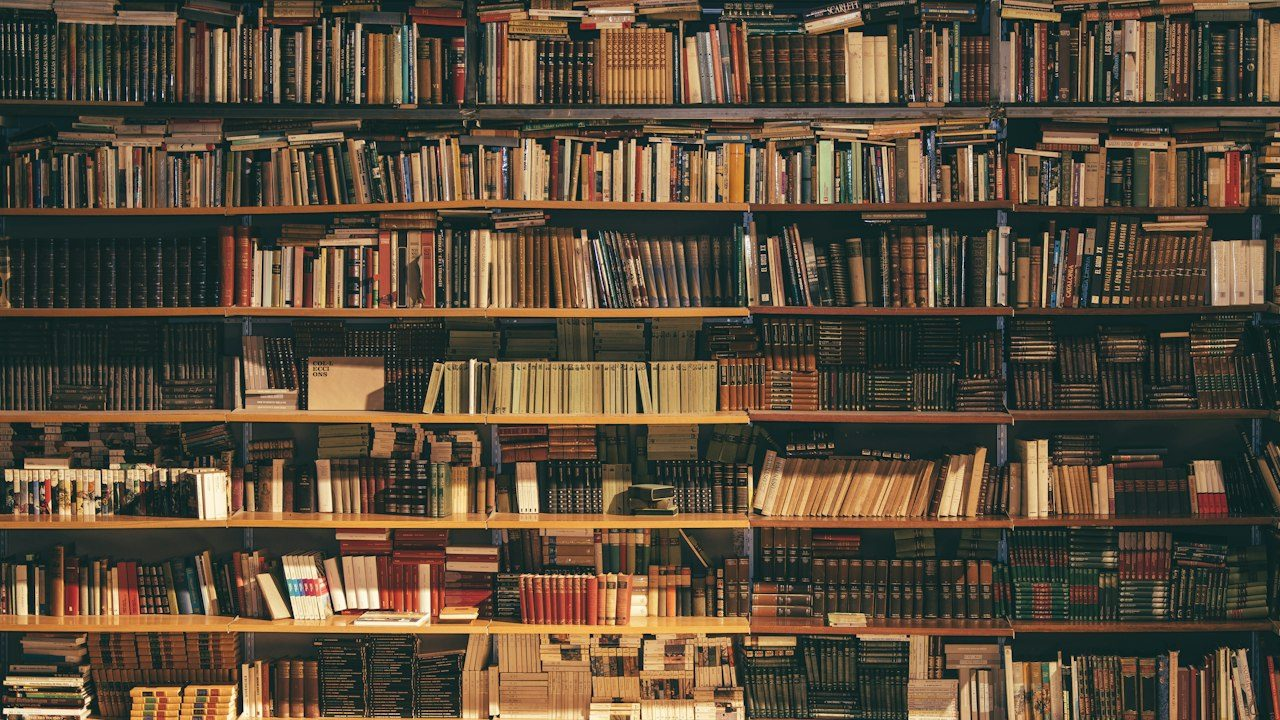
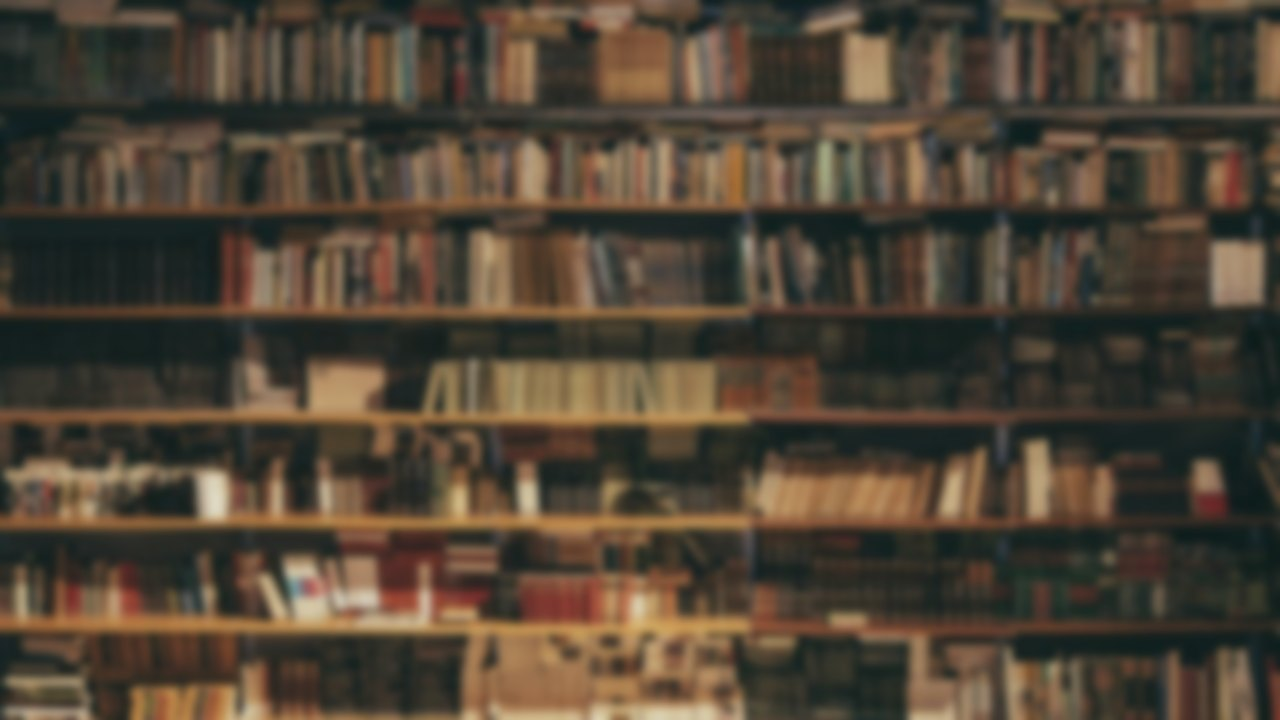
Call backgrounds: studio backdrops in seven colours, softer rooms, grouped picker
The owner (2026-11-04), from the join screen: the rooms looked like
"somebody's adding" a picture, and they wanted plain backdrops in several
colours "so if they're wearing some color, it doesn't contradict with it".
Seven studio backdrops (black, charcoal, grey, cream, taupe, green, wine),
each a painted backdrop with a soft pool of light behind the head, darker
edges, a faint mottle and grain; the seven room photos softened the way a
webcam's depth of field shows a room (a slight blur, a little less
brightness and colour); the picker grouped as Blur, Studio, Rooms. The
three earlier plain pictures (Sage, Green, Warm) give way to the studio
set; a saved choice of one falls back to None. The cut-out itself is
Daily's and has no setting to tune.

diff --git a/src/components/meeting/backgrounds.tsx b/src/components/meeting/backgrounds.tsx
@@ -5,7 +5,11 @@
  * an office", "hover to see it"). Daily's own video processors, wherever the
  * browser can run them (supportsVideoProcessing: desktop browsers, not an
  * iPhone). The choice is remembered on this browser and put back at the
- * next call. Pictures: public/call-backgrounds (CREDITS.md).
+ * next call. Pictures: public/call-backgrounds (CREDITS.md). Then (same
+ * day): "it looks like somebody's adding" a picture, and plain backdrops in
+ * colours that do not fight what they wear: the Studio set is painted
+ * backdrops with a pool of light behind the head, and the rooms are softened
+ * the way a webcam's depth of field would show them.
  */
 import { useCallback, useEffect, useRef, useState } from "react";
 import type { DailyCall } from "@daily-co/daily-js";
@@ -14,46 +18,65 @@ export type BackgroundChoice =
   | "none"
   | "blur-light"
   | "blur-strong"
+  | "studio-black"
+  | "studio-charcoal"
+  | "studio-grey"
+  | "studio-cream"
+  | "studio-taupe"
+  | "studio-forest"
+  | "studio-wine"
   | "office"
   | "loft"
   | "home-office"
   | "library"
   | "living-room"
   | "lounge"
-  | "studio"
-  | "sage-studio"
-  | "deep-green"
-  | "warm-office";
+  | "studio";
 
 interface BackgroundOption {
   id: BackgroundChoice;
   label: string;
+  /** Effects, a plain studio backdrop (a colour that need not fight what they wear), or a room. */
+  group: "effects" | "studio" | "rooms";
   /** A picture background: /call-backgrounds/<id>.jpg, thumbnail <id>-thumb.jpg. */
   picture?: boolean;
 }
 
 export const BACKGROUNDS: readonly BackgroundOption[] = [
-  { id: "none", label: "None" },
-  { id: "blur-light", label: "Soft blur" },
-  { id: "blur-strong", label: "Blur" },
-  { id: "office", label: "Office", picture: true },
-  { id: "loft", label: "Loft", picture: true },
-  { id: "home-office", label: "Home office", picture: true },
-  { id: "library", label: "Library", picture: true },
-  { id: "living-room", label: "Living room", picture: true },
-  { id: "lounge", label: "Lounge", picture: true },
-  { id: "studio", label: "Studio", picture: true },
-  { id: "sage-studio", label: "Sage", picture: true },
-  { id: "deep-green", label: "Green", picture: true },
-  { id: "warm-office", label: "Warm", picture: true },
+  { id: "none", label: "None", group: "effects" },
+  { id: "blur-light", label: "Soft blur", group: "effects" },
+  { id: "blur-strong", label: "Blur", group: "effects" },
+  { id: "studio-black", label: "Black", group: "studio", picture: true },
+  { id: "studio-charcoal", label: "Charcoal", group: "studio", picture: true },
+  { id: "studio-grey", label: "Grey", group: "studio", picture: true },
+  { id: "studio-cream", label: "Cream", group: "studio", picture: true },
+  { id: "studio-taupe", label: "Taupe", group: "studio", picture: true },
+  { id: "studio-forest", label: "Green", group: "studio", picture: true },
+  { id: "studio-wine", label: "Wine", group: "studio", picture: true },
+  { id: "office", label: "Office", group: "rooms", picture: true },
+  { id: "loft", label: "Loft", group: "rooms", picture: true },
+  { id: "home-office", label: "Home office", group: "rooms", picture: true },
+  { id: "library", label: "Library", group: "rooms", picture: true },
+  { id: "living-room", label: "Living room", group: "rooms", picture: true },
+  { id: "lounge", label: "Lounge", group: "rooms", picture: true },
+  { id: "studio", label: "Studio", group: "rooms", picture: true },
 ];
+
+const GROUPS: ReadonlyArray<{ id: BackgroundOption["group"]; label: string }> =
+  [
+    { id: "effects", label: "Blur" },
+    { id: "studio", label: "Studio" },
+    { id: "rooms", label: "Rooms" },
+  ];
 
 const KEY = "hf-call-background";
 
 export function readBackground(): BackgroundChoice {
   try {
     const saved = window.localStorage.getItem(KEY);
-    return BACKGROUNDS.some((b) => b.id === saved) ? (saved as BackgroundChoice) : "none";
+    return BACKGROUNDS.some((b) => b.id === saved)
+      ? (saved as BackgroundChoice)
+      : "none";
   } catch {
     return "none";
   }
@@ -69,10 +92,17 @@ export function saveBackground(choice: BackgroundChoice): void {
 
 /** Daily's video processor for a choice. */
 export function processorFor(choice: BackgroundChoice) {
-  if (choice === "blur-light") return { type: "background-blur" as const, config: { strength: 0.45 } };
-  if (choice === "blur-strong") return { type: "background-blur" as const, config: { strength: 1 } };
+  if (choice === "blur-light")
+    return { type: "background-blur" as const, config: { strength: 0.45 } };
+  if (choice === "blur-strong")
+    return { type: "background-blur" as const, config: { strength: 1 } };
   if (BACKGROUNDS.find((b) => b.id === choice)?.picture) {
-    return { type: "background-image" as const, config: { source: `${window.location.origin}/call-backgrounds/${choice}.jpg` } };
+    return {
+      type: "background-image" as const,
+      config: {
+        source: `${window.location.origin}/call-backgrounds/${choice}.jpg`,
+      },
+    };
   }
   return { type: "none" as const };
 }
@@ -95,61 +125,88 @@ export function BackgroundPicker({
   // dozen effects.
   const preview = (choice: BackgroundChoice | null) => {
     if (timer.current) window.clearTimeout(timer.current);
-    timer.current = window.setTimeout(() => onPreview(choice), choice === null ? 0 : 140);
+    timer.current = window.setTimeout(
+      () => onPreview(choice),
+      choice === null ? 0 : 140,
+    );
   };
-  useEffect(() => () => {
-    if (timer.current) window.clearTimeout(timer.current);
-  }, []);
+  useEffect(
+    () => () => {
+      if (timer.current) window.clearTimeout(timer.current);
+    },
+    [],
+  );
 
   return (
-    <div className="grid grid-cols-4 gap-2 sm:grid-cols-7" onMouseLeave={() => preview(null)}>
-      {BACKGROUNDS.map((b) => {
-        const on = value === b.id;
-        return (
-          <button
-            key={b.id}
-            type="button"
-            onMouseEnter={() => preview(b.id)}
-            onFocus={() => preview(b.id)}
-            onClick={() => onChoose(b.id)}
-            aria-pressed={on}
-            title={b.label}
-            className="group flex flex-col items-center gap-1 text-[11px] font-medium text-muted-foreground transition-transform duration-150 hover:-translate-y-0.5 active:scale-95 motion-reduce:transition-none motion-reduce:hover:translate-y-0"
-          >
-            <span
-              className="relative block aspect-video w-full overflow-hidden rounded-lg border transition-shadow duration-150 group-hover:shadow-md"
-              style={{
-                borderColor: on ? "var(--action)" : "var(--line-soft)",
-                boxShadow: on ? "0 0 0 2px var(--action)" : undefined,
-                background: b.picture
-                  ? `center / cover no-repeat url(/call-backgrounds/${b.id}-thumb.jpg)`
-                  : "linear-gradient(135deg, var(--surface-2), var(--line-soft))",
-              }}
-            >
-              {!b.picture && (
-                <span className="absolute inset-0 flex items-center justify-center gap-1" aria-hidden>
-                  {b.id === "none" ? (
-                    <span className="text-[10px]" style={{ color: "var(--ink-2)" }}>
-                      Off
-                    </span>
-                  ) : (
-                    [0, 1, 2].map((i) => (
+    <div className="space-y-2.5" onMouseLeave={() => preview(null)}>
+      {GROUPS.map((g) => (
+        <div key={g.id}>
+          <div className="mb-1 text-[10px] font-semibold uppercase tracking-[0.08em] text-muted-foreground">
+            {g.label}
+          </div>
+          <div className="grid grid-cols-4 gap-2 sm:grid-cols-7">
+            {BACKGROUNDS.filter((b) => b.group === g.id).map((b) => {
+              const on = value === b.id;
+              return (
+                <button
+                  key={b.id}
+                  type="button"
+                  onMouseEnter={() => preview(b.id)}
+                  onFocus={() => preview(b.id)}
+                  onClick={() => onChoose(b.id)}
+                  aria-pressed={on}
+                  title={b.label}
+                  className="group flex flex-col items-center gap-1 text-[11px] font-medium text-muted-foreground transition-transform duration-150 hover:-translate-y-0.5 active:scale-95 motion-reduce:transition-none motion-reduce:hover:translate-y-0"
+                >
+                  <span
+                    className="relative block aspect-video w-full overflow-hidden rounded-lg border transition-shadow duration-150 group-hover:shadow-md"
+                    style={{
+                      borderColor: on ? "var(--action)" : "var(--line-soft)",
+                      boxShadow: on ? "0 0 0 2px var(--action)" : undefined,
+                      background: b.picture
+                        ? `center / cover no-repeat url(/call-backgrounds/${b.id}-thumb.jpg)`
+                        : "linear-gradient(135deg, var(--surface-2), var(--line-soft))",
+                    }}
+                  >
+                    {!b.picture && (
                       <span
-                        key={i}
-                        className="h-2 w-2 rounded-full"
-                        style={{ background: "var(--ink-2)", filter: `blur(${b.id === "blur-light" ? 1 : 2.5}px)` }}
-                      />
-                    ))
-                  )}
-                </span>
-              )}
-            </span>
-            <span className="truncate" style={{ color: on ? "var(--ink)" : undefined }}>
-              {b.label}
-            </span>
-          </button>
-        );
-      })}
+                        className="absolute inset-0 flex items-center justify-center gap-1"
+                        aria-hidden
+                      >
+                        {b.id === "none" ? (
+                          <span
+                            className="text-[10px]"
+                            style={{ color: "var(--ink-2)" }}
+                          >
+                            Off
+                          </span>
+                        ) : (
+                          [0, 1, 2].map((i) => (
+                            <span
+                              key={i}
+                              className="h-2 w-2 rounded-full"
+                              style={{
+                                background: "var(--ink-2)",
+                                filter: `blur(${b.id === "blur-light" ? 1 : 2.5}px)`,
+                              }}
+                            />
+                          ))
+                        )}
+                      </span>
+                    )}
+                  </span>
+                  <span
+                    className="truncate"
+                    style={{ color: on ? "var(--ink)" : undefined }}
+                  >
+                    {b.label}
+                  </span>
+                </button>
+              );
+            })}
+          </div>
+        </div>
+      ))}
     </div>
   );
 }
@@ -165,7 +222,9 @@ export function BackgroundPicker({
 export function useBackgroundPreview(active: boolean) {
   const [supported, setSupported] = useState(false);
   const [track, setTrack] = useState<MediaStreamTrack | null>(null);
-  const [choice, setChoice] = useState<BackgroundChoice>(() => readBackground());
+  const [choice, setChoice] = useState<BackgroundChoice>(() =>
+    readBackground(),
+  );
   const callRef = useRef<DailyCall | null>(null);
   const choiceRef = useRef(choice);
   choiceRef.current = choice;
@@ -174,7 +233,10 @@ export function useBackgroundPreview(active: boolean) {
     let cancelled = false;
     import("@daily-co/daily-js")
       .then(({ default: DailyIframe }) => {
-        if (!cancelled) setSupported(!!DailyIframe.supportedBrowser()?.supportsVideoProcessing);
+        if (!cancelled)
+          setSupported(
+            !!DailyIframe.supportedBrowser()?.supportsVideoProcessing,
+          );
       })
       .catch(() => {});
     return () => {
@@ -192,8 +254,11 @@ export function useBackgroundPreview(active: boolean) {
         const call = DailyIframe.createCallObject({ startAudioOff: true });
         callRef.current = call;
         const refresh = () => {
-          const t = call.participants()?.local?.tracks?.video as { state?: string; track?: unknown; persistentTrack?: unknown } | undefined;
-          const live = t?.state === "playable" ? (t.persistentTrack ?? t.track) : null;
+          const t = call.participants()?.local?.tracks?.video as
+            | { state?: string; track?: unknown; persistentTrack?: unknown }
+            | undefined;
+          const live =
+            t?.state === "playable" ? (t.persistentTrack ?? t.track) : null;
           setTrack(live instanceof MediaStreamTrack ? live : null);
         };
         call.on("track-started", refresh);
@@ -202,7 +267,9 @@ export function useBackgroundPreview(active: boolean) {
         await call.startCamera({ startAudioOff: true });
         if (cancelled) return;
         if (choiceRef.current !== "none") {
-          await call.updateInputSettings({ video: { processor: processorFor(choiceRef.current) } });
+          await call.updateInputSettings({
+            video: { processor: processorFor(choiceRef.current) },
+          });
         }
         refresh();
       } catch {
@@ -220,7 +287,11 @@ export function useBackgroundPreview(active: boolean) {
   }, [active, supported]);
 
   const show = useCallback((preview: BackgroundChoice | null) => {
-    void callRef.current?.updateInputSettings({ video: { processor: processorFor(preview ?? choiceRef.current) } }).catch(() => {});
+    void callRef.current
+      ?.updateInputSettings({
+        video: { processor: processorFor(preview ?? choiceRef.current) },
+      })
+      .catch(() => {});
   }, []);
   const choose = useCallback(
     (next: BackgroundChoice) => {

diff --git a/public/call-backgrounds/CREDITS.md b/public/call-backgrounds/CREDITS.md
@@ -1,6 +1,6 @@
 # Call backgrounds
 
-Room photos from Unsplash (unsplash.com/license: free for commercial use, no attribution required), resized to 1280x720:
+Room photos from Unsplash (unsplash.com/license: free for commercial use, no attribution required), resized to 1280x720 and softened (a slight blur, a little less brightness and colour) so they read as the room behind a webcam:
 
 | File | Unsplash photo |
 |---|---|
@@ -12,4 +12,4 @@ Room photos from Unsplash (unsplash.com/license: free for commercial use, no att
 | living-room.jpg | photo-1600210492486-724fe5c67fb0 |
 | studio.jpg | photo-1586023492125-27b2c045efd7 |
 
-sage-studio.jpg, deep-green.jpg and warm-office.jpg are HireFlow's own (drawn 2026-11-04). The *-thumb.jpg files are the picker's thumbnails.
+The studio-*.jpg backdrops are HireFlow's own (drawn 2026-11-04): one colour each, a soft pool of light behind the head, darker edges, a faint mottled texture and fine grain. The *-thumb.jpg files are the picker's thumbnails.
